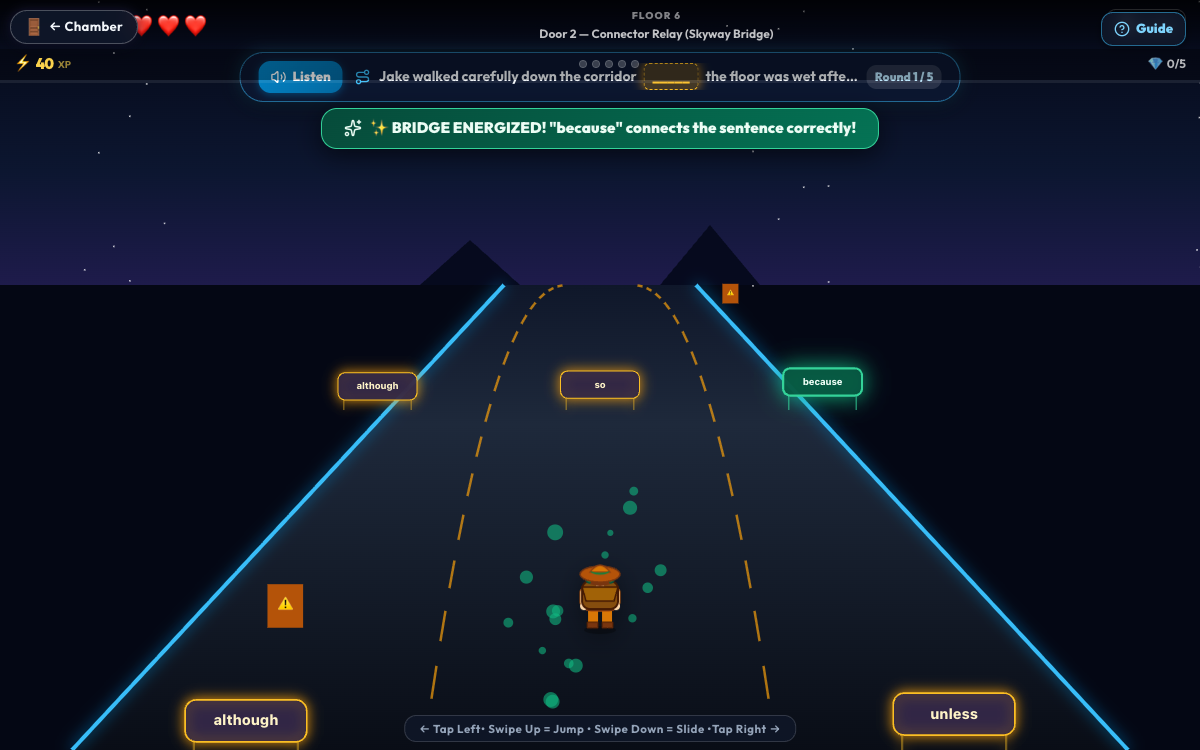
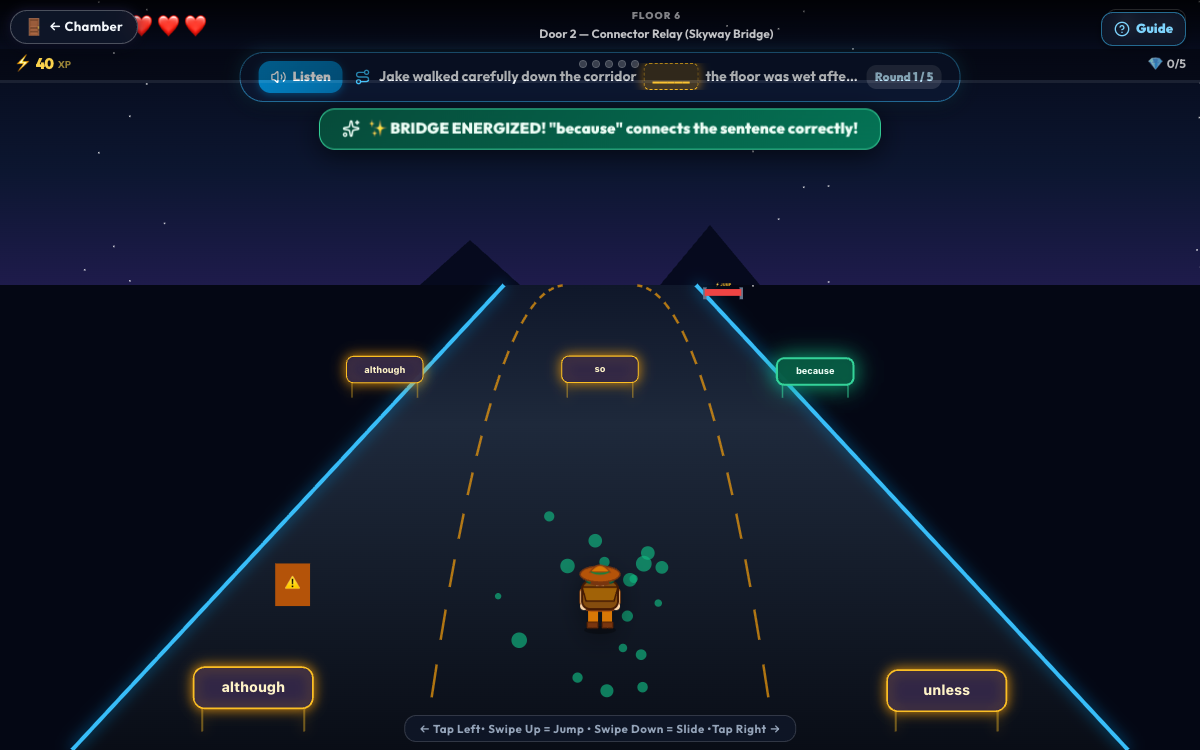
fix(chronicles): resolve hearts closure in ConnectorRelayCanvas test hook and add 4/4 playtest suite [SS-TT]

diff --git a/src/modules/quest/ConnectorRelayCanvas.jsx b/src/modules/quest/ConnectorRelayCanvas.jsx
@@ -82,6 +82,16 @@ export default function ConnectorRelayCanvas({
   const [leoPos, setLeoPos] = useState({ x: 0, y: 0, jumpOffset: 0, scale: 1 });
   const [leoAnimState, setLeoAnimState] = useState('run');
 
+  // Live tracking refs for accurate real-time test hooks
+  const heartsRef = useRef(hearts);
+  heartsRef.current = hearts;
+  const scoreRef = useRef(score);
+  scoreRef.current = score;
+  const roundIdxRef = useRef(roundIdx);
+  roundIdxRef.current = roundIdx;
+  const targetLaneRef = useRef(targetLane);
+  targetLaneRef.current = targetLane;
+
   // Game Engine Entities (Road objects: z from 0.05 to 1.2)
   const entitiesRef = useRef([]); // [{ id, type, lane, z, word, isCorrect, targetRoundId, passed, collected }]
   const particlesRef = useRef([]); // Visual energy sparks
@@ -274,12 +284,12 @@ export default function ConnectorRelayCanvas({
       window.__CONNECTOR_RELAY_EVENT_LOG__ = window.__CONNECTOR_RELAY_EVENT_LOG__ || [];
       window.__CONNECTOR_RELAY_TEST_HOOK__ = {
         setTargetLane: (lane) => setTargetLane(lane),
-        getTargetLane: () => targetLane,
+        getTargetLane: () => targetLaneRef.current,
         getCurrentEntities: () => entitiesRef.current,
-        getRoundIdx: () => roundIdx,
+        getRoundIdx: () => roundIdxRef.current,
         getCurrentQuestion: () => currentQ,
-        getScore: () => score,
-        getHearts: () => hearts,
+        getScore: () => scoreRef.current,
+        getHearts: () => heartsRef.current,
         resetInvincible: () => {
           invincibleUntil.current = 0;
           setInvincible(false);
